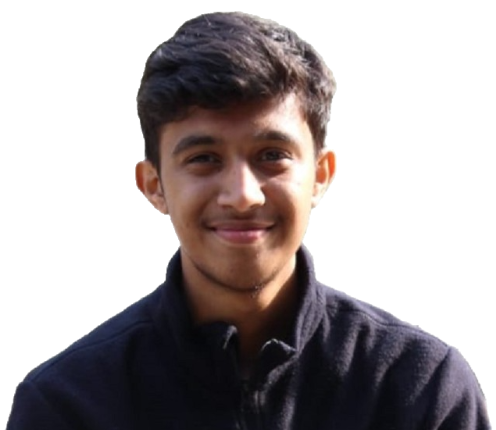
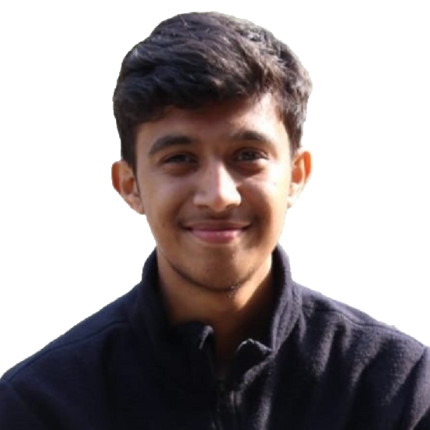
layout

diff --git a/_sass/devlopr.scss b/_sass/devlopr.scss
@@ -724,8 +724,8 @@ header {
 }
 
 .author-profile-img {
-    width: 150px;
-    height: 150px;
+    width: 380px;
+    height: 330px;
 }
 
 .blog-post {
